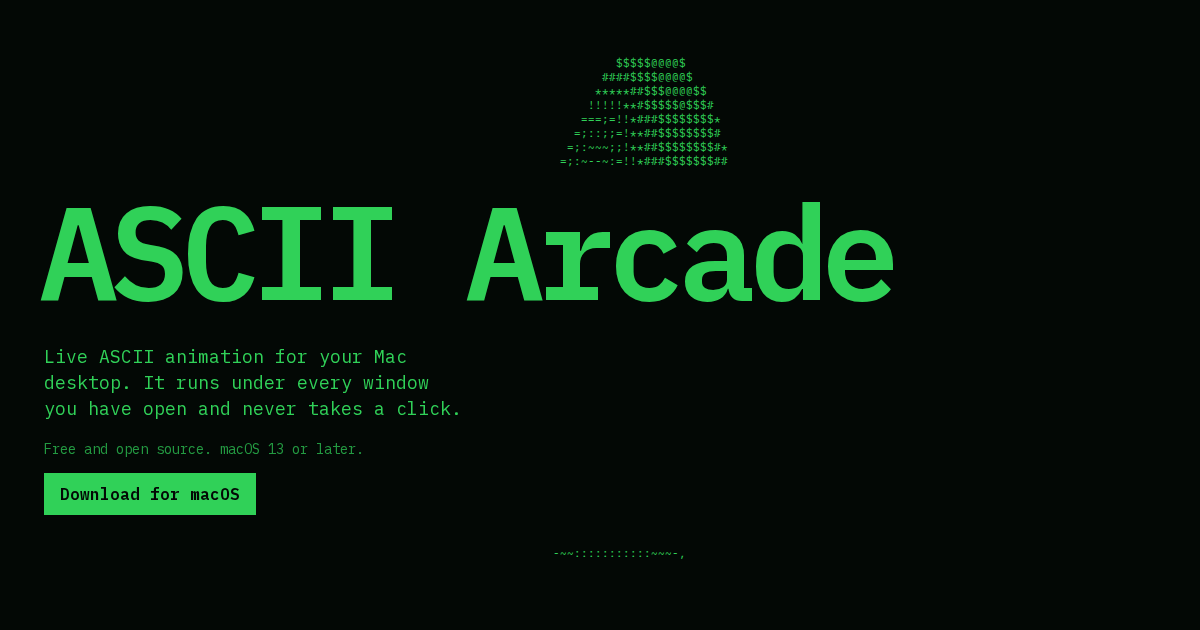
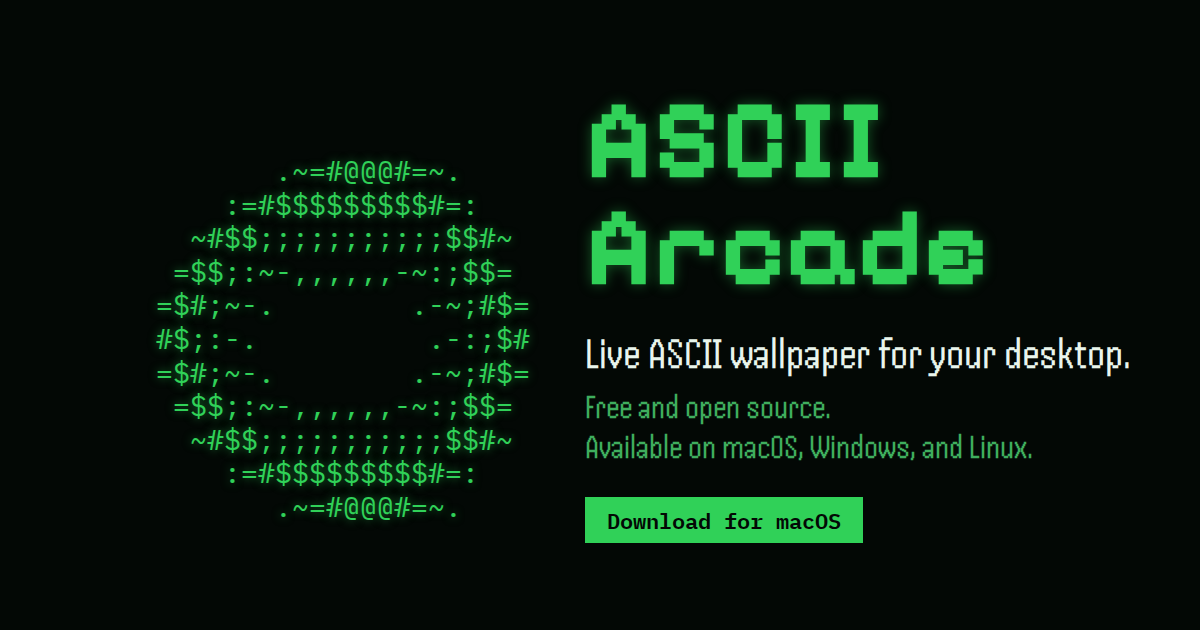
fix(site): update the social card for all platforms
The card behind og:image still said "for your Mac desktop" and
"macOS 13 or later" while the page title and description named macOS,
Windows, and Linux. It also had no source in the repository.

Add an HTML source for the card and a Playwright script that renders
it to site/assets/social-card.png, then regenerate the image with the
new wording.

diff --git a/assets/social-card.html b/assets/social-card.html
@@ -1,0 +1,78 @@
+<!doctype html>
+<html lang="en">
+<head>
+<meta charset="utf-8">
+<title>ASCII Arcade social card</title>
+<style>
+  @font-face { font-family: "Pixelify Sans"; src: url("../trailer/public/fonts/PixelifySans-400-700.woff2") format("woff2"); font-weight: 400 700; }
+  @font-face { font-family: "Handjet"; src: url("../trailer/public/fonts/Handjet-500.woff2") format("woff2"); font-weight: 500; }
+  @font-face { font-family: "IBM Plex Mono"; src: url("../trailer/public/fonts/IBMPlexMono-600.woff2") format("woff2"); font-weight: 600; }
+  @font-face { font-family: "IBM Plex Mono"; src: url("../trailer/public/fonts/IBMPlexMono-400.woff2") format("woff2"); font-weight: 400; }
+
+  html, body { margin: 0; }
+  body {
+    width: 1200px;
+    height: 630px;
+    overflow: hidden;
+    position: relative;
+    background: #030805;
+    color: #e9f5ec;
+  }
+  .donut {
+    position: absolute;
+    left: 54px;
+    top: 154px;
+    margin: 0;
+    font: 400 28px/1.2 "IBM Plex Mono", monospace;
+    color: #30d158;
+    text-shadow: 0 0 10px rgba(48, 209, 88, 0.55);
+    white-space: pre;
+  }
+  .copy {
+    position: absolute;
+    left: 585px;
+    top: 0;
+    bottom: 0;
+    right: 56px;
+    display: flex;
+    flex-direction: column;
+    justify-content: center;
+  }
+  h1 {
+    margin: 0;
+    font: 700 112px/0.95 "Pixelify Sans", monospace;
+    color: #30d158;
+    text-shadow: 0 0 14px rgba(48, 209, 88, 0.4);
+  }
+  .line { margin: 30px 0 0; font: 500 44px/1.1 "Handjet", monospace; }
+  .note { margin: 10px 0 0; font: 500 34px/1.15 "Handjet", monospace; color: #3fae5e; }
+  .cta {
+    margin: 30px 0 0;
+    align-self: flex-start;
+    padding: 12px 22px;
+    background: #30d158;
+    color: #030805;
+    font: 600 22px/1 "IBM Plex Mono", monospace;
+  }
+</style>
+</head>
+<body>
+  <pre class="donut" aria-hidden="true">             .~=#@@@#=~.
+          :=#$$$$$$$$$#=:
+        ~#$$;;;;;;;;;;;$$#~
+       =$$;:~-,,,,,,-~:;$$=
+      =$#;~-.        .-~;#$=
+      #$;:-.          .-:;$#
+      =$#;~-.        .-~;#$=
+       =$$;:~-,,,,,,-~:;$$=
+        ~#$$;;;;;;;;;;;$$#~
+          :=#$$$$$$$$$#=:
+             .~=#@@@#=~.</pre>
+  <div class="copy">
+    <h1>ASCII<br>Arcade</h1>
+    <p class="line">Live ASCII wallpaper for your desktop.</p>
+    <p class="note">Free and open source.<br>Available on macOS, Windows, and Linux.</p>
+    <p class="cta">Download for macOS</p>
+  </div>
+</body>
+</html>
